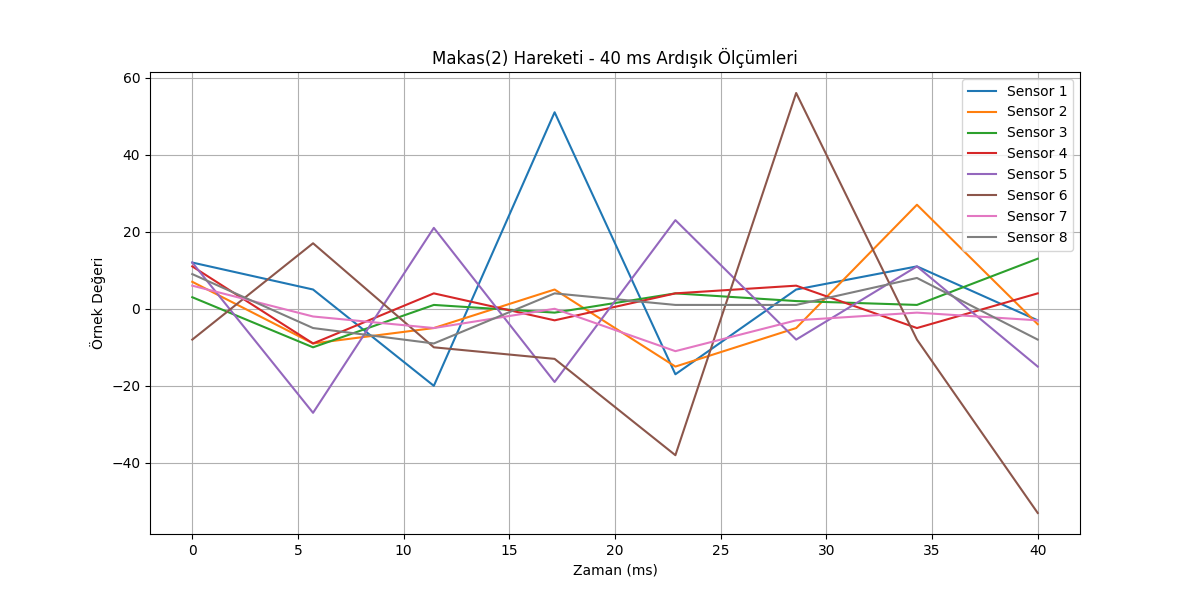
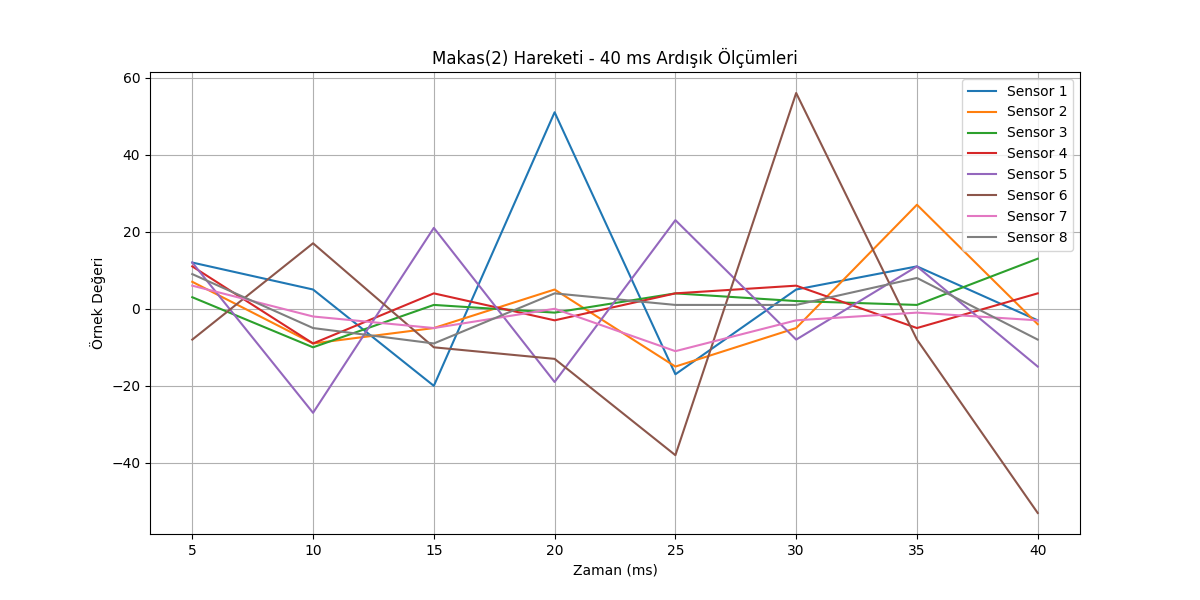
test

diff --git a/data_processor.py b/data_processor.py
@@ -25,43 +25,30 @@ class DataProcessor:
 
     def plot_40ms_data(self, data_row, class_name):
         """
-        Her sensörün 40 ms boyunca alınan 8 ölçümünü sabit bir çizgi şeklinde gösterir.
+        Her sensörün 40 ms boyunca alınan 8 ölçümünü aynı grafikte gösterir.
         :param data_row: Görselleştirilecek satır
         :param class_name: Sınıf adı (ör. "Taş(0)")
         """
         save_path = "results/dataset"
         os.makedirs(save_path, exist_ok=True)
 
-        # 8 ölçüm, her ölçüm 5 ms arayla
-        x_time = np.linspace(0, 40, 9)  # 9 noktadan oluşuyor, her ölçüm 5 ms arayla
+        x_time = np.linspace(5, 40, 8)  # 200 hz'lık 8 ölçüm noktası
 
-        # 8 sensör için alt grafikler (subplot) oluştur
-        plt.figure(figsize=(16, 12))  # Tüm sensörlerin grafiklerini yerleştirecek kadar geniş bir figür
-
+        plt.figure(figsize=(12, 6))
         for i in range(8):  # 8 sensör
             sensor_data = data_row[i::8].values  # Sensöre ait ölçümler
-            
-            # Her sensör için bir subplot oluştur
-            plt.subplot(4, 2, i + 1)  # 4 satır, 2 sütunluk alt grafikler düzeni
+            plt.plot(x_time, sensor_data, label=f"Sensor {i + 1}")
 
-            # 8 ölçüm, her biri 5 ms süresince sabit
-            for j in range(1, len(x_time)):
-                # Her ölçüm için sabit kalacak şekilde çizim (5 ms boyunca sabit)
-                plt.plot([x_time[j-1], x_time[j]], [sensor_data[j-1], sensor_data[j-1]], label=f"Sensor {i + 1}" if j == 1 else "")
+        plt.title(f"{class_name} Hareketi - 40 ms Ardışık Ölçümleri")
+        plt.xlabel("Zaman (ms)")
+        plt.ylabel("Örnek Değeri")
+        plt.legend(loc="upper right")
+        plt.grid(True)
 
-            # Her sensör için başlık, etiketler ve grid ekle
-            plt.title(f"Sensor {i + 1} - {class_name} Hareketi")
-            plt.xlabel("Zaman (ms)")
-            plt.ylabel("Örnek Değeri")
-            plt.grid(True)
-            plt.tight_layout()  # Alt grafiklerin düzenini sıkıştırarak daha düzgün bir yerleşim sağlar
-
-        # Grafikleri kaydet
-        save_file = os.path.join(save_path, f"{class_name.lower().replace('(', '').replace(')', '').replace(' ', '_')}_40ms_sensores.png")
+        save_file = os.path.join(save_path, f"{class_name.lower().replace('(', '').replace(')', '').replace(' ', '_')}_40ms.png")
         plt.savefig(save_file)
         plt.show()
-        print(f"{class_name} sınıfı için tüm sensörlerin figürü {save_file} konumuna kaydedildi.")
-
+        print(f"{class_name} sınıfı için figür {save_file} konumuna kaydedildi.")
 
     def plot_heatmap(self, data_row, class_name):
         """
